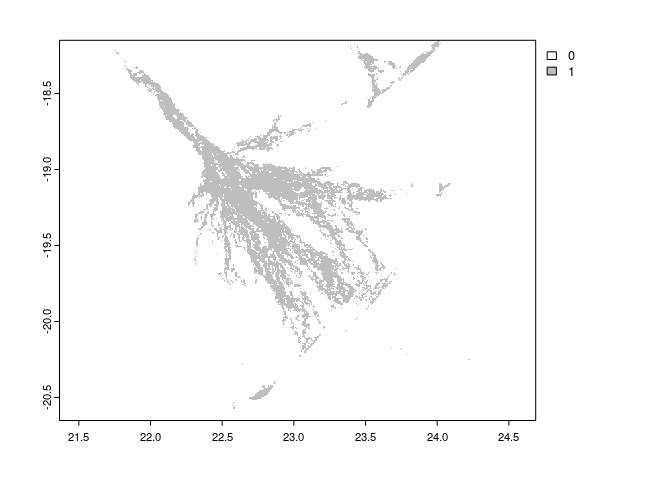
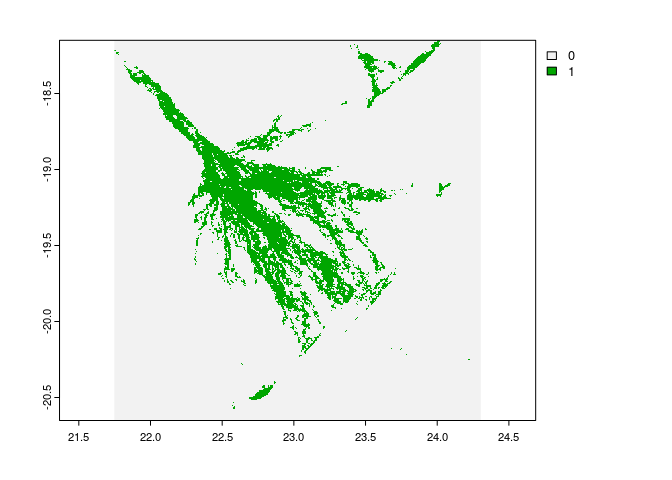
updated readme

diff --git a/README.md b/README.md
@@ -120,7 +120,7 @@ modis_percentiles(loaded)
 classified <- modis_classify(loaded)
 
 # Visualize classified image (0 = dryland, 1 = water, 2 = clouds)
-plot(classified, col = c("white", "cornflowerblue", "gray"))
+plot(classified)
 ```
 
 <img src="man/figures/README-unnamed-chunk-3-2.png" width="100%" />
